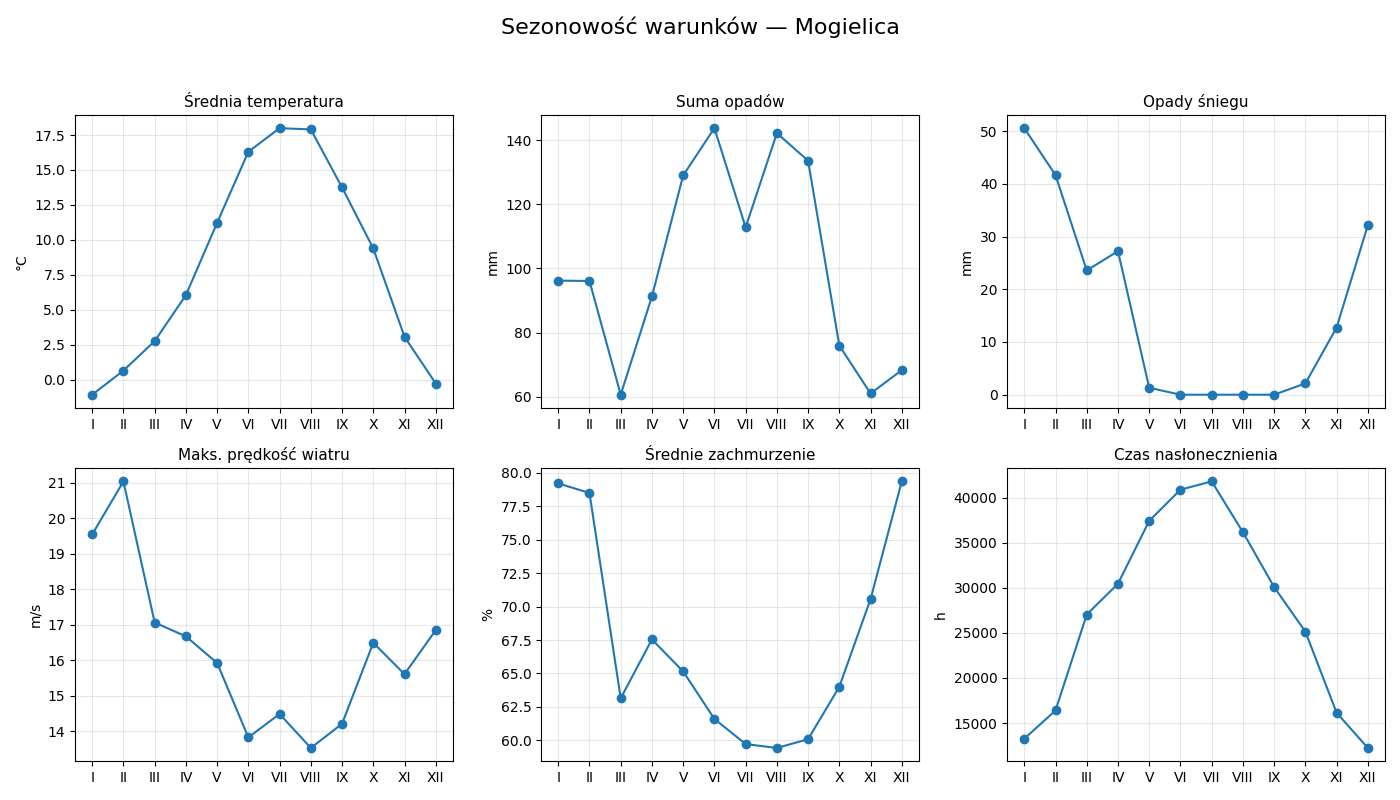
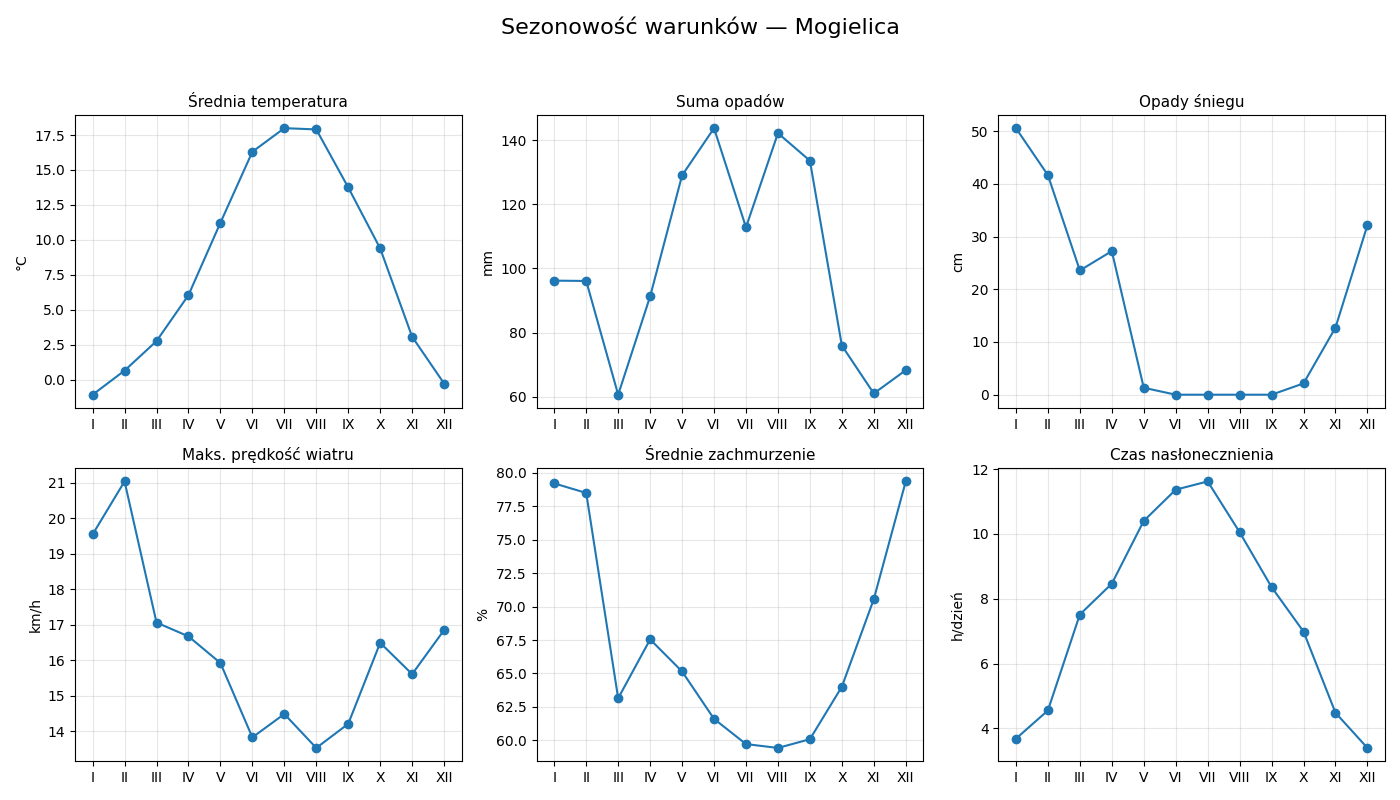
fixed units for snow fall, wind speed and sunshine duration

diff --git a/ranking.py b/ranking.py
@@ -7,15 +7,18 @@ df = pd.read_csv(r"D:\Programowanie\analiza-pogodowa-KGP\kgp_all_monthly_clean.c
 # --- średnie roczne dla każdego szczytu ---
 annual_means = df.groupby("Szczyt").mean(numeric_only=True).reset_index()
 
+# --- Konwersja nasłonecznienia z sekund na godziny dziennie ---
+annual_means["sunshine_duration"] = annual_means["sunshine_duration"] / 3600
+
 # --- TOP N w każdej kategorii ---
 def topN(col, ascending=False, n=5):
     return annual_means[["Szczyt", col]].sort_values(col, ascending=ascending).head(n)
 
 rankings = {
-    "Najbardziej deszczowe (mm)": topN("precipitation_sum", ascending=False, n=5),
-    "Najbardziej śnieżne (mm)": topN("snowfall_sum", ascending=False, n=5),
-    "Najbardziej wietrzne (m/s)": topN("windspeed_10m_max", ascending=False, n=5),
-    "Najbardziej słoneczne (h)": topN("sunshine_duration", ascending=False, n=5),
+    "Najbardziej deszczowe (mm/mies.)": topN("precipitation_sum", ascending=False, n=5),
+    "Najbardziej śnieżne (cm/mies.)": topN("snowfall_sum", ascending=False, n=5),
+    "Najbardziej wietrzne (km/h)": topN("windspeed_10m_max", ascending=False, n=5),
+    "Najbardziej słoneczne (h/dzień)": topN("sunshine_duration", ascending=False, n=5),
     "Najbardziej pochmurne (%)": topN("cloudcover_mean", ascending=False, n=5),
     "Najcieplejsze (°C)": topN("temperature_2m_mean", ascending=False, n=5),
     "Najzimniejsze (°C)": topN("temperature_2m_mean", ascending=True, n=5),

diff --git a/analiza_wszystkie_szczyty.py b/analiza_wszystkie_szczyty.py
@@ -18,10 +18,10 @@ m_labels = ["I","II","III","IV","V","VI","VII","VIII","IX","X","XI","XII"]
 units = {
     "temperature_2m_mean": "°C",
     "precipitation_sum": "mm",
-    "snowfall_sum": "mm",
-    "windspeed_10m_max": "m/s",
+    "snowfall_sum": "cm",
+    "windspeed_10m_max": "km/h",
     "cloudcover_mean": "%",
-    "sunshine_duration": "h"
+    "sunshine_duration": "h/dzień"
 }
 
 # --- Funkcja do znajdowania ekstremów ---
@@ -42,6 +42,10 @@ def analyze_peak(peak_name, df):
     # Agregacja miesięczna (średnia z lat)
     cols = list(units.keys())
     monthly = df_peak.groupby("month", as_index=False)[cols].mean()
+
+    # Konwersja średniego dziennego czasu nasłonecznienia
+    # z sekund na godziny
+    monthly["sunshine_duration"] = monthly["sunshine_duration"] / 3600
 
     # --- Wykres 2×3 ---
     fig, axes = plt.subplots(2, 3, figsize=(14, 8))
